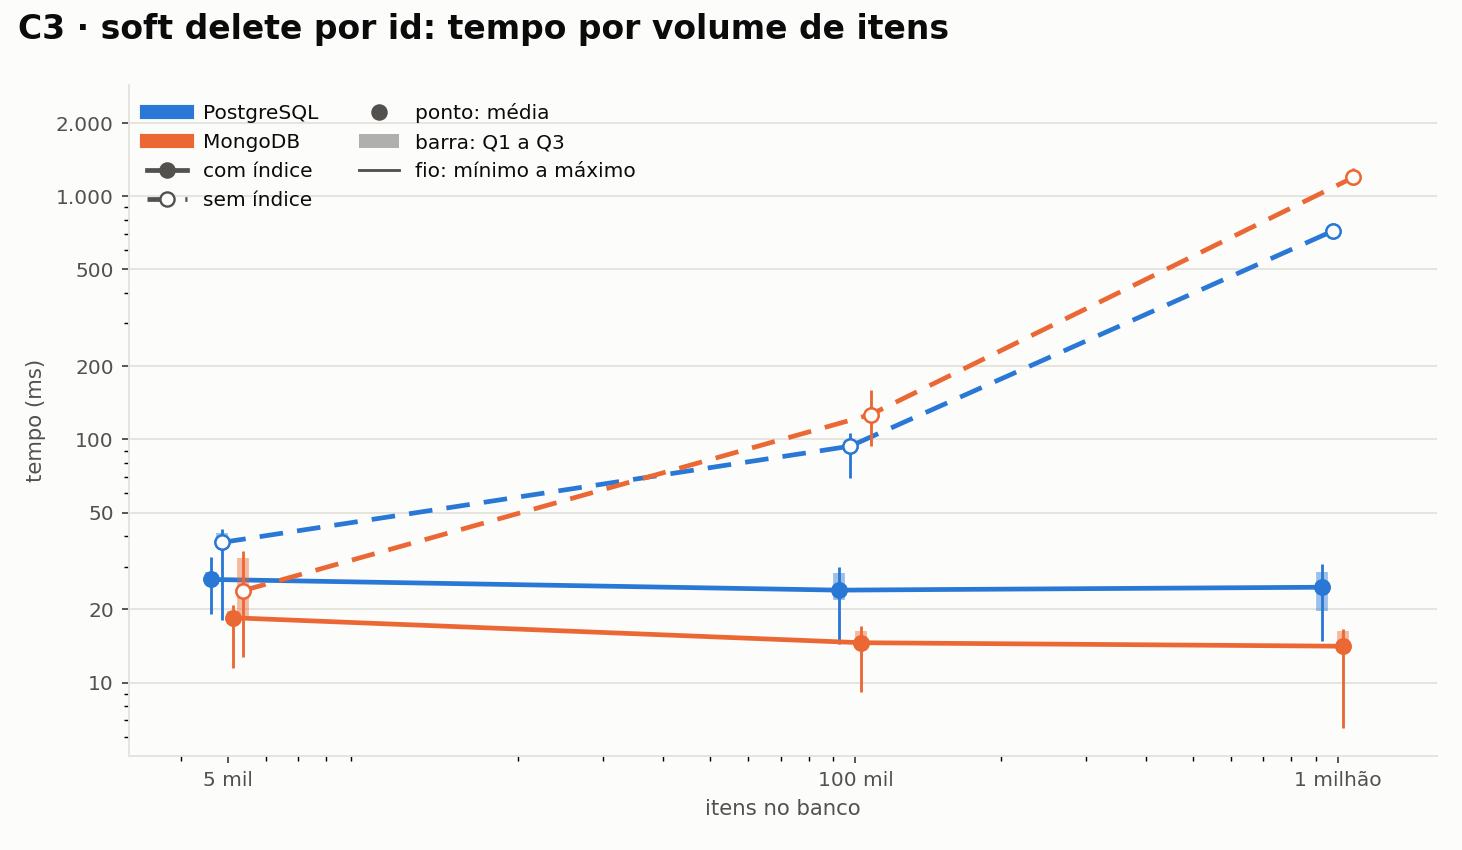
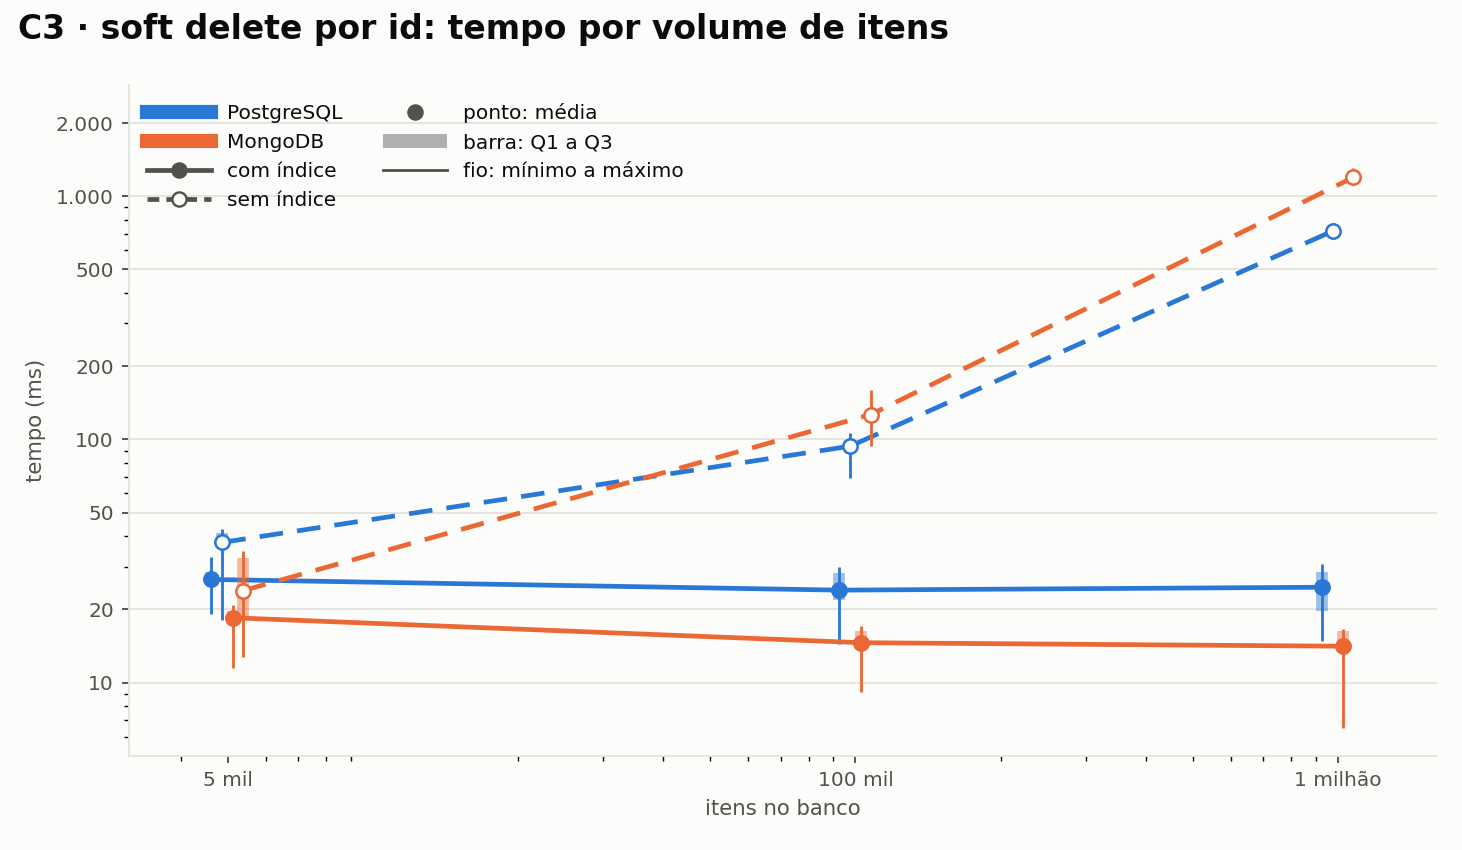
atualizando legenda

Changed region(s): [[0.0923, 0.1224, 0.4617, 0.2447]]

diff --git a/graficos.py b/graficos.py
@@ -150,8 +150,8 @@ def itens_legenda(forcado=False, so_bancos=False):
     if so_bancos:
         return h
     h += [Line2D([], [], color=TINTA_2, ls="-", marker="o", markerfacecolor=TINTA_2, lw=2, ms=6, label="com índice"),
-          Line2D([], [], color=TINTA_2, ls=(0, (5, 3)), marker="o", markerfacecolor=SUPERFICIE, lw=2, ms=6,
-                 label="sem índice")]
+          Line2D([], [], color=TINTA_2, ls=(0, (2.5, 1.5)), marker="o", markerfacecolor=SUPERFICIE, lw=2, ms=6,
+                 label="sem índice")]  # traço mais curto que o da linha, para caber no símbolo da legenda
     if forcado:
         h.append(Line2D([], [], color=TINTA_2, ls=(0, (1, 2)), marker="s", markerfacecolor=TINTA_2, lw=2, ms=5,
                         label="índice forçado"))
@@ -272,7 +272,7 @@ def grafico_escala(vol, saida, estatistica="mediana"):
         ax.set_xlabel("itens no banco", fontsize=9, color=TINTA_2)
         ax.set_ylabel("tempo (ms)", fontsize=9, color=TINTA_2)
         ax.legend(handles=itens_legenda(forcado=tem_forcado) + (itens_variacao() if media else []), loc="upper left",
-                  frameon=False, fontsize=8.5, labelcolor=TINTA, ncol=2)
+                  frameon=False, fontsize=8.5, labelcolor=TINTA, ncol=2, handlelength=3.2)
         fig.tight_layout(rect=(0, 0, 1, 0.93))
         salvar(fig, saida / f"grafico1_escala_{c}.png")
 
